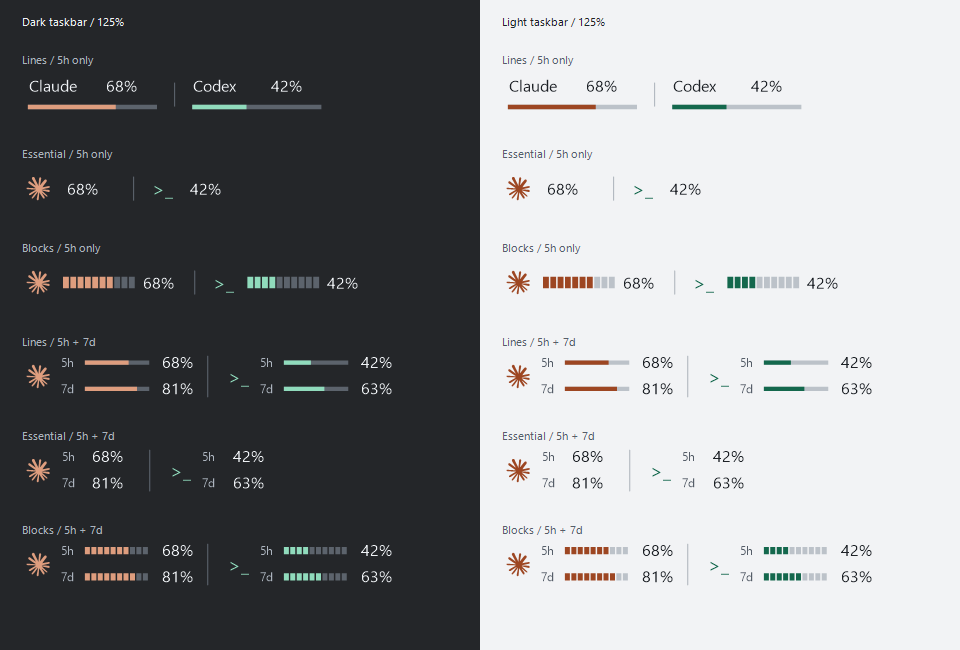
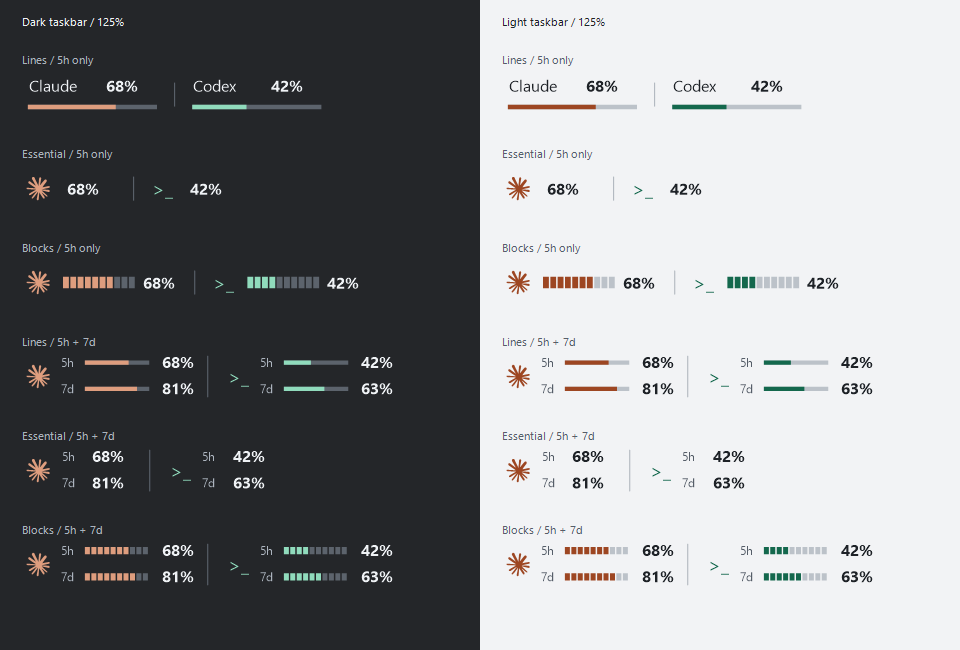
Use bold quota percentages in every taskbar style

diff --git a/src/Taskcode.Probe/Indicator.cs b/src/Taskcode.Probe/Indicator.cs
@@ -77,8 +77,8 @@ namespace Taskcode.Probe
                 if (showWeekly)
                 {
                     int second = SecondProviderX(style, true);
-                    DrawWeeklyProvider(g, font, text, "Claude", Value(usage, 0), Value(usage, 1), theme.Claude, 36, style, theme);
-                    DrawWeeklyProvider(g, font, text, "Codex", Value(usage, 2), Value(usage, 3), theme.Codex, second, style, theme);
+                    DrawWeeklyProvider(g, font, bold, text, "Claude", Value(usage, 0), Value(usage, 1), theme.Claude, 36, style, theme);
+                    DrawWeeklyProvider(g, font, bold, text, "Codex", Value(usage, 2), Value(usage, 3), theme.Codex, second, style, theme);
                     using (var pen = new Pen(theme.Divider, 0.6f)) g.DrawLine(pen, second - 12, 3, second - 12, 31);
                     DrawSpeedHint(g, theme.Claude, 36, style, true, pulseKey & 3, (pulseKey >> 2) & 3);
                     DrawSpeedHint(g, theme.Codex, second, style, true, (pulseKey >> 4) & 3, (pulseKey >> 6) & 3);
@@ -115,7 +115,7 @@ namespace Taskcode.Probe
         {
             SpeedArrows.Draw(g, color, count, new RectangleF(x - 0.5f, y, 17, 6));
         }
-        private static void DrawWeeklyProvider(Graphics g, Font font, Brush text, string name, int shortRemaining, int weeklyRemaining, Color color, int x, IndicatorStyle style, TaskbarTheme theme)
+        private static void DrawWeeklyProvider(Graphics g, Font font, Font bold, Brush text, string name, int shortRemaining, int weeklyRemaining, Color color, int x, IndicatorStyle style, TaskbarTheme theme)
         {
             using (var accent = new SolidBrush(color))
             using (var track = new SolidBrush(theme.Track))
@@ -129,7 +129,7 @@ namespace Taskcode.Probe
                     int remaining = row == 0 ? shortRemaining : weeklyRemaining;
                     g.DrawString(row == 0 ? "5h" : "7d", periodFont, muted, x + 23, y + 2);
                     if (style == IndicatorStyle.Essential)
-                    { g.DrawString(Percentage(remaining), font, text, x + 43, y); continue; }
+                    { g.DrawString(Percentage(remaining), bold, text, x + 43, y); continue; }
                     if (style == IndicatorStyle.Lines)
                     {
                         g.FillRectangle(track, x + 40, y + 6, 44, 3);
@@ -140,7 +140,7 @@ namespace Taskcode.Probe
                         for (int block = 0; block < 10; block++)
                             g.FillRectangle(block < (int)Math.Round(remaining / 10.0) ? accent : track, x + 40 + block * 4.4f, y + 5, 3.4f, 5);
                     }
-                    g.DrawString(Percentage(remaining), font, text, x + 91, y);
+                    g.DrawString(Percentage(remaining), bold, text, x + 91, y);
                 }
             }
         }
@@ -152,20 +152,20 @@ namespace Taskcode.Probe
                 if (style == IndicatorStyle.Essential)
                 {
                     DrawMark(g, font, accent, name, x);
-                    g.DrawString(Percentage(remaining), font, text, x + 26, 10);
+                    g.DrawString(Percentage(remaining), bold, text, x + 26, 10);
                     return;
                 }
                 if (style == IndicatorStyle.Lines)
                 {
                     g.DrawString(name, font, text, x, 4);
-                    g.DrawString(Percentage(remaining), font, text, x + 53, 4);
+                    g.DrawString(Percentage(remaining), bold, text, x + 53, 4);
                     g.FillRectangle(track, x + 1, 24, 88, 3);
                     if (remaining >= 0) g.FillRectangle(accent, x + 1, 24, 88 * remaining / 100f, 3);
                     return;
                 }
                 DrawMark(g, font, accent, name, x);
                 for (int i = 0; i < 10; i++) g.FillRectangle(i < (int)Math.Round(remaining / 10.0) ? accent : track, x + 25 + i * 5, 13, 4, 8);
-                g.DrawString(Percentage(remaining), font, text, x + 78, 10);
+                g.DrawString(Percentage(remaining), bold, text, x + 78, 10);
             }
         }
         private static void DrawMark(Graphics g, Font font, Brush accent, string name, int x)
